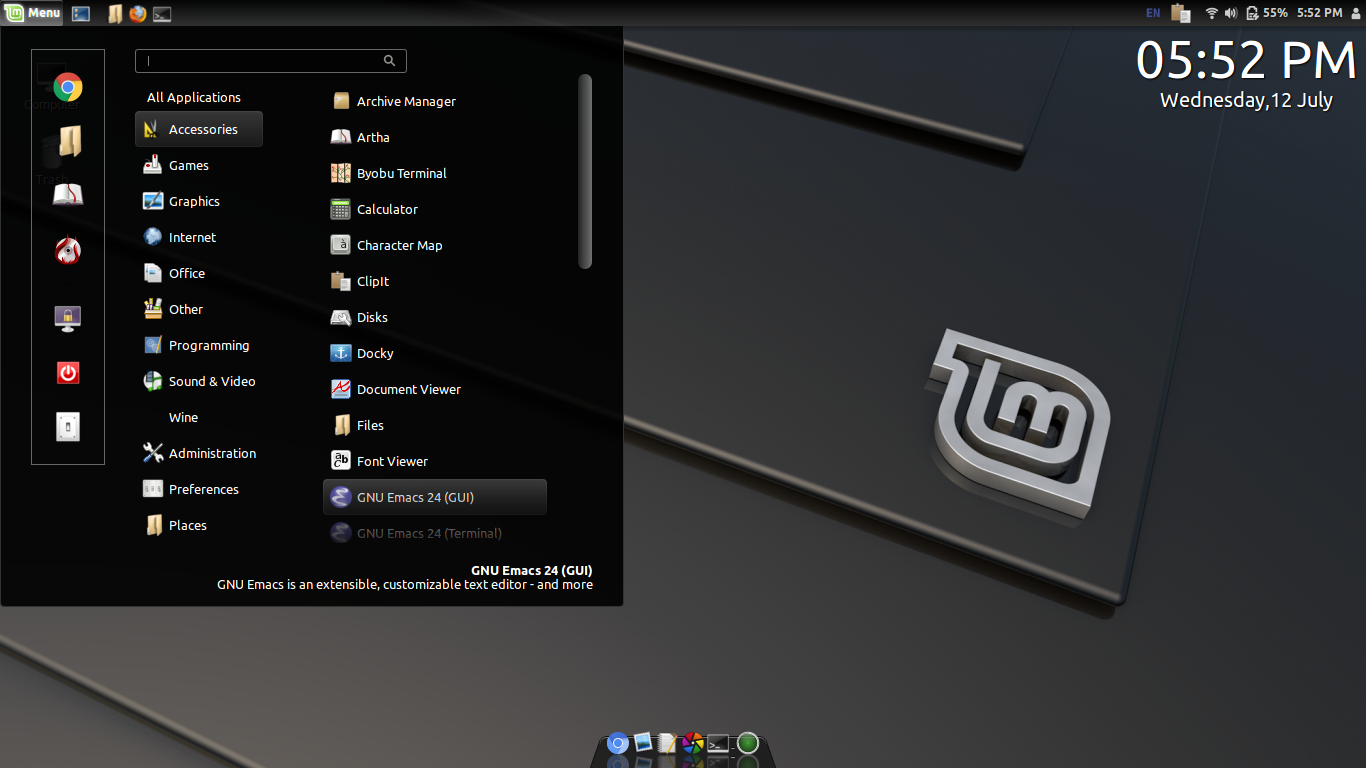
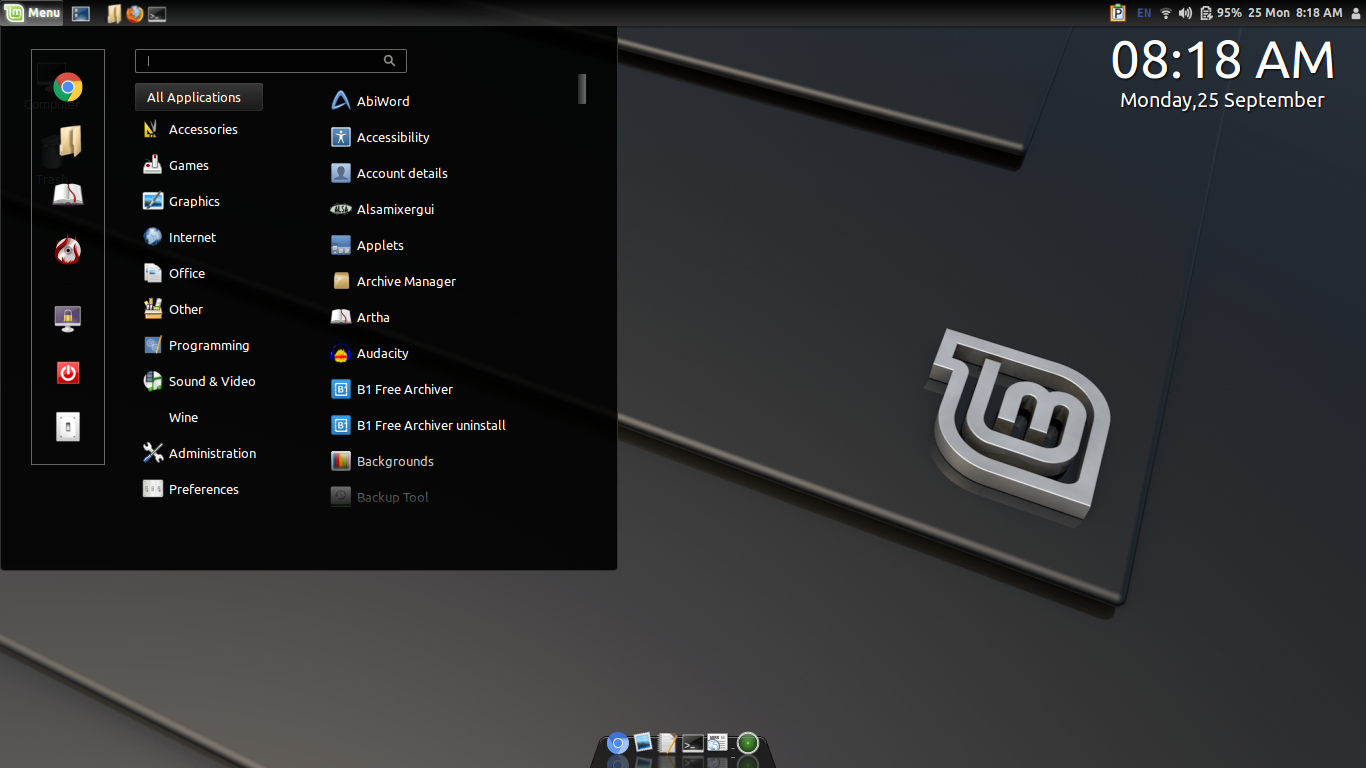
Eleganse-dark: info.json, screenshot.png update, README.md creation (#257)
* Eleganse-dark: info.json update

Update per https://github.com/linuxmint/cinnamon-spices-themes/issues/252

* Eleganse-dark: README.md creation

Update per https://github.com/linuxmint/cinnamon-spices-themes/issues/252

* Eleganse-dark: Screenshot update

Screenshot update

diff --git a/Eleganse-dark/README.md b/Eleganse-dark/README.md
@@ -1,0 +1,3 @@
+A dark theme originally based on &#39;<a href="https://cinnamon-spices.linuxmint.com/themes/view/Eleganse">Eleganse</a>&#39; theme. But now progressing independently. 
+
+Icon theme used in the screenshot is "nuoveXT2"
